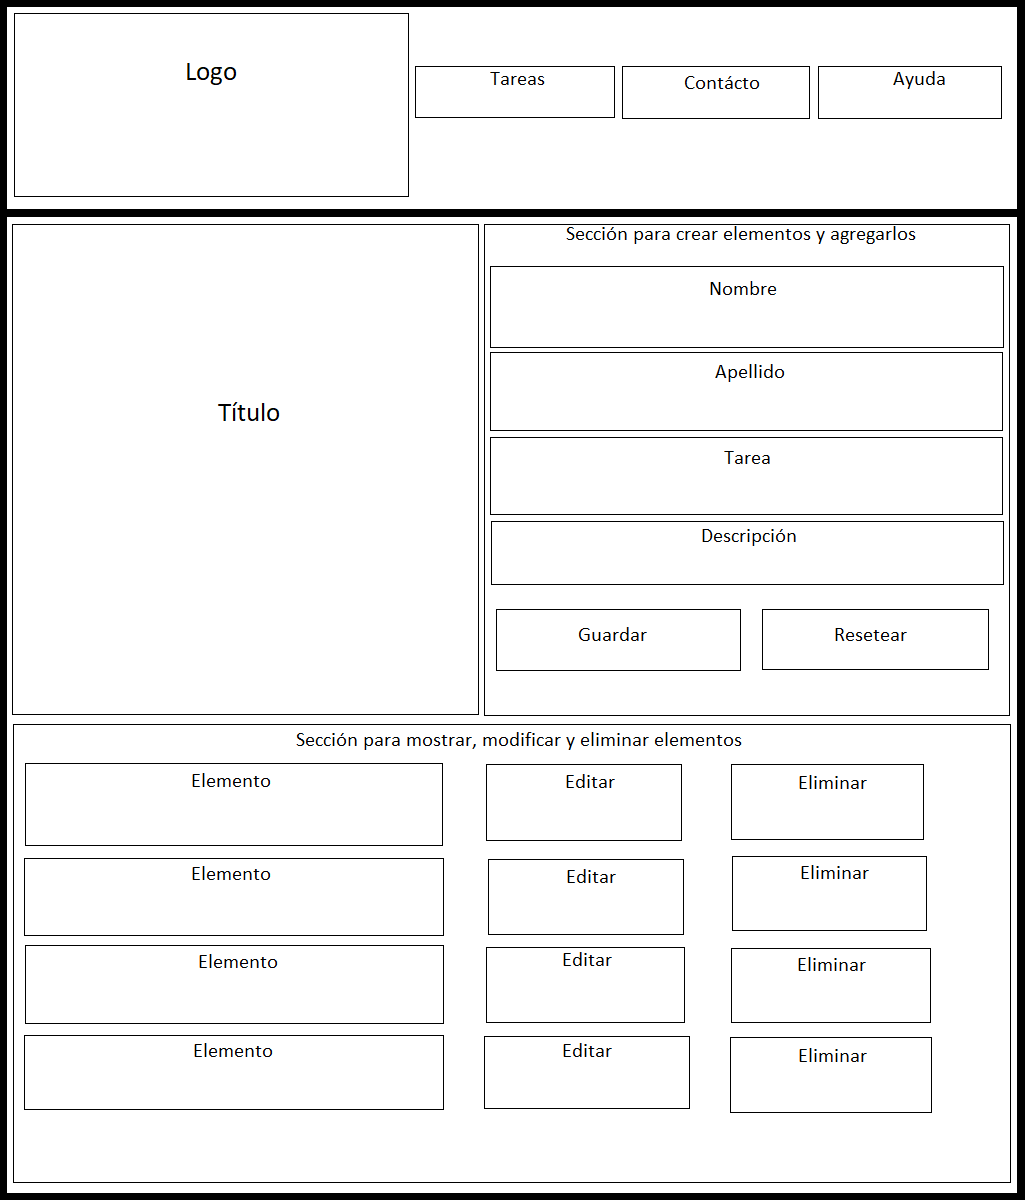
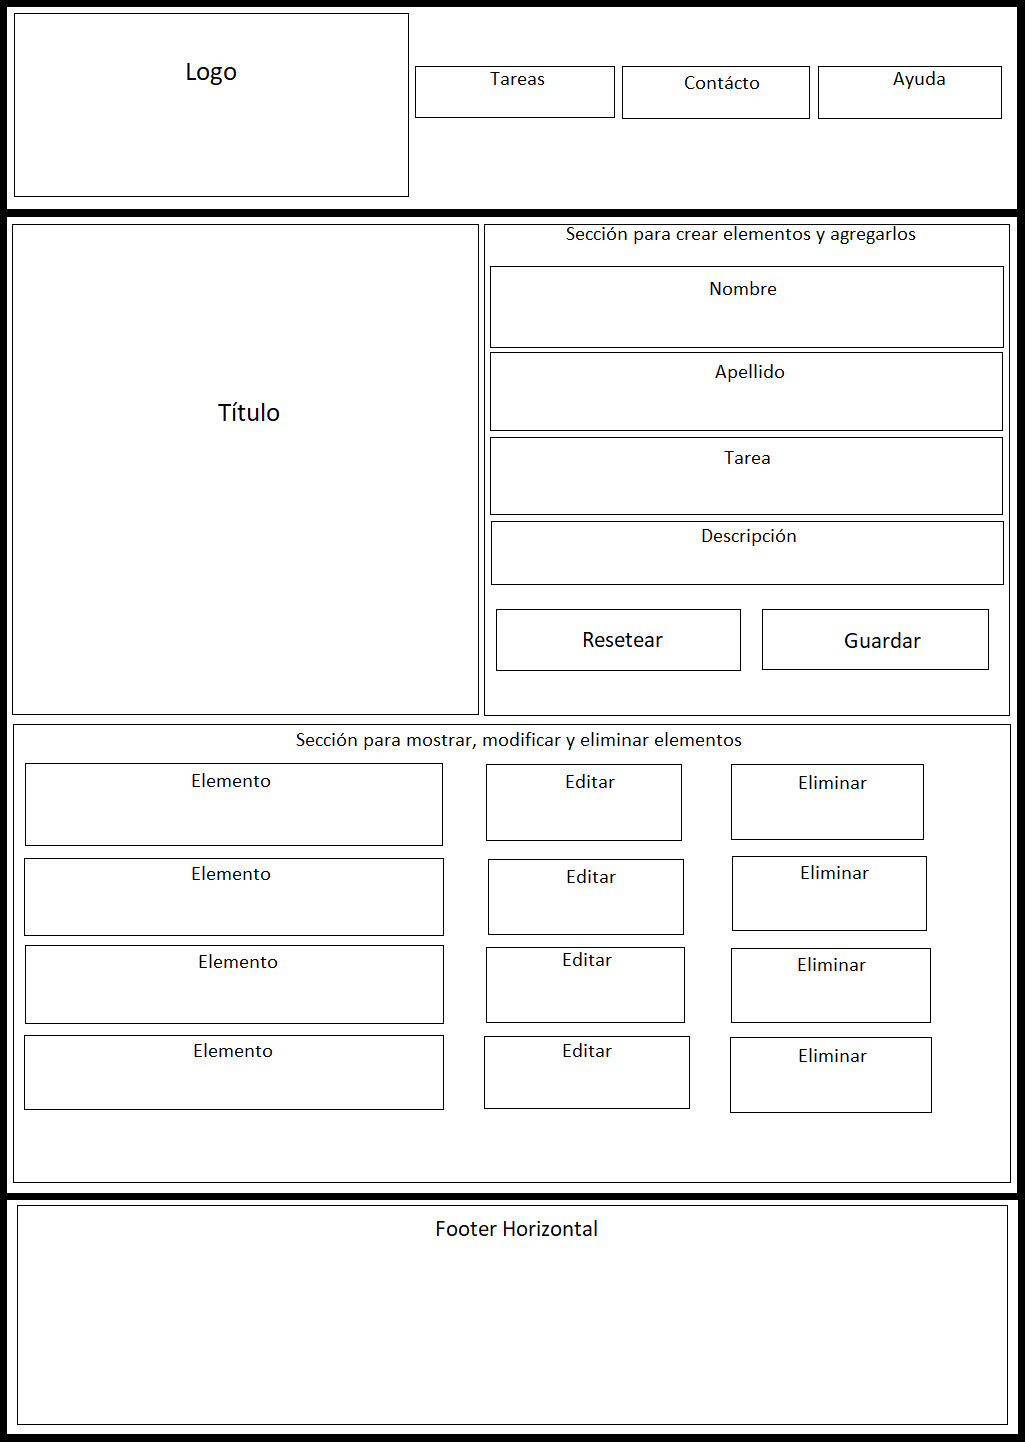
Último commit después de revisar detalles

diff --git a/script/script.js b/script/script.js
@@ -44,8 +44,8 @@ function insertNewRecord(data) {
 
     // Se insertan los elementos que van a ser los botones de Edit y Delete, con sus respectivos eventos.
     newRow.insertCell(4).innerHTML =
-    `<button type="button" onClick=editForm(this)>Edit</button>
-    <button type="button" onClick=deleteRecord(this)>Delete</button>`;
+    `<button type="button" onClick=editForm(this)>Editar</button>
+    <button type="button" onClick=deleteRecord(this)>Eliminar</button>`;
 
     // Para agregar los datos de los inputs (data) al array tareas.
     tareas.push(data)
@@ -127,8 +127,8 @@ function updateAfterPageRefresh() {
                 <td>${tarea}</td>
                 <td>${descripcion}</td>
                 <td>
-                    <button type="button" onClick=editForm(this)>Edit</button>
-                    <button type="button" onClick=deleteRecord(this)>Delete</button>
+                    <button type="button" onClick=editForm(this)>Editar</button>
+                    <button type="button" onClick=deleteRecord(this)>Eliminar</button>
                 </td>
             </tr>
             `;

diff --git a/style/style.css b/style/style.css
@@ -391,7 +391,6 @@ footer>.footer__div>.footer__div-div>.redes a {
     }
 
     footer>.footer__div>.footer__div-div ul li a {
-        font-size: 1.2rem;
         transition: color 0.5s;
         color: #f2e5d7;
     }
@@ -420,13 +419,10 @@ footer>.footer__div>.footer__div-div>.redes a {
     }
 
     footer>.footer__div>.footer__div-div>.redes a {
-        color: #262322;
-        background-color: #f2e5d7;
         transition: all 0.5s;
     }
 
     footer>.footer__div>.footer__div-div>.redes a:hover {
-        color: #262322;
         background-color: #a62322;
     }
 }

diff --git a/index.html b/index.html
@@ -53,8 +53,8 @@
                         <input type="text" name="descripcion" id="descripcion" required>
                     </div>
                     <div class="button container-fluid">
-                        <button type="reset">Reset</button>
-                        <button type="submit">Submit</button>
+                        <button type="reset">Resetear</button>
+                        <button type="submit">Guardar</button>
                     </div>
                 </form>
             </div>

diff --git a/README.md b/README.md
@@ -1,0 +1,5 @@
+# Proyecto Aplicación CRUD
+
+Este proyecto consiste en crear una aplicación CRUD. En mi caso me decidí por una aplicación dónde se pueda guardar y editar una lista de tareas, que permita organizarse de una forma sencilla y que mediante una pequeña descripción se pueda tener detalles de la o las tareas que se desean realizar, como también la identificación de la persona encargada de realizar cada una de estas.
+
+[Enlace al despliegue en GitHub Pages](https://franco-odone.github.io/proyecto2M1BUDD/)
